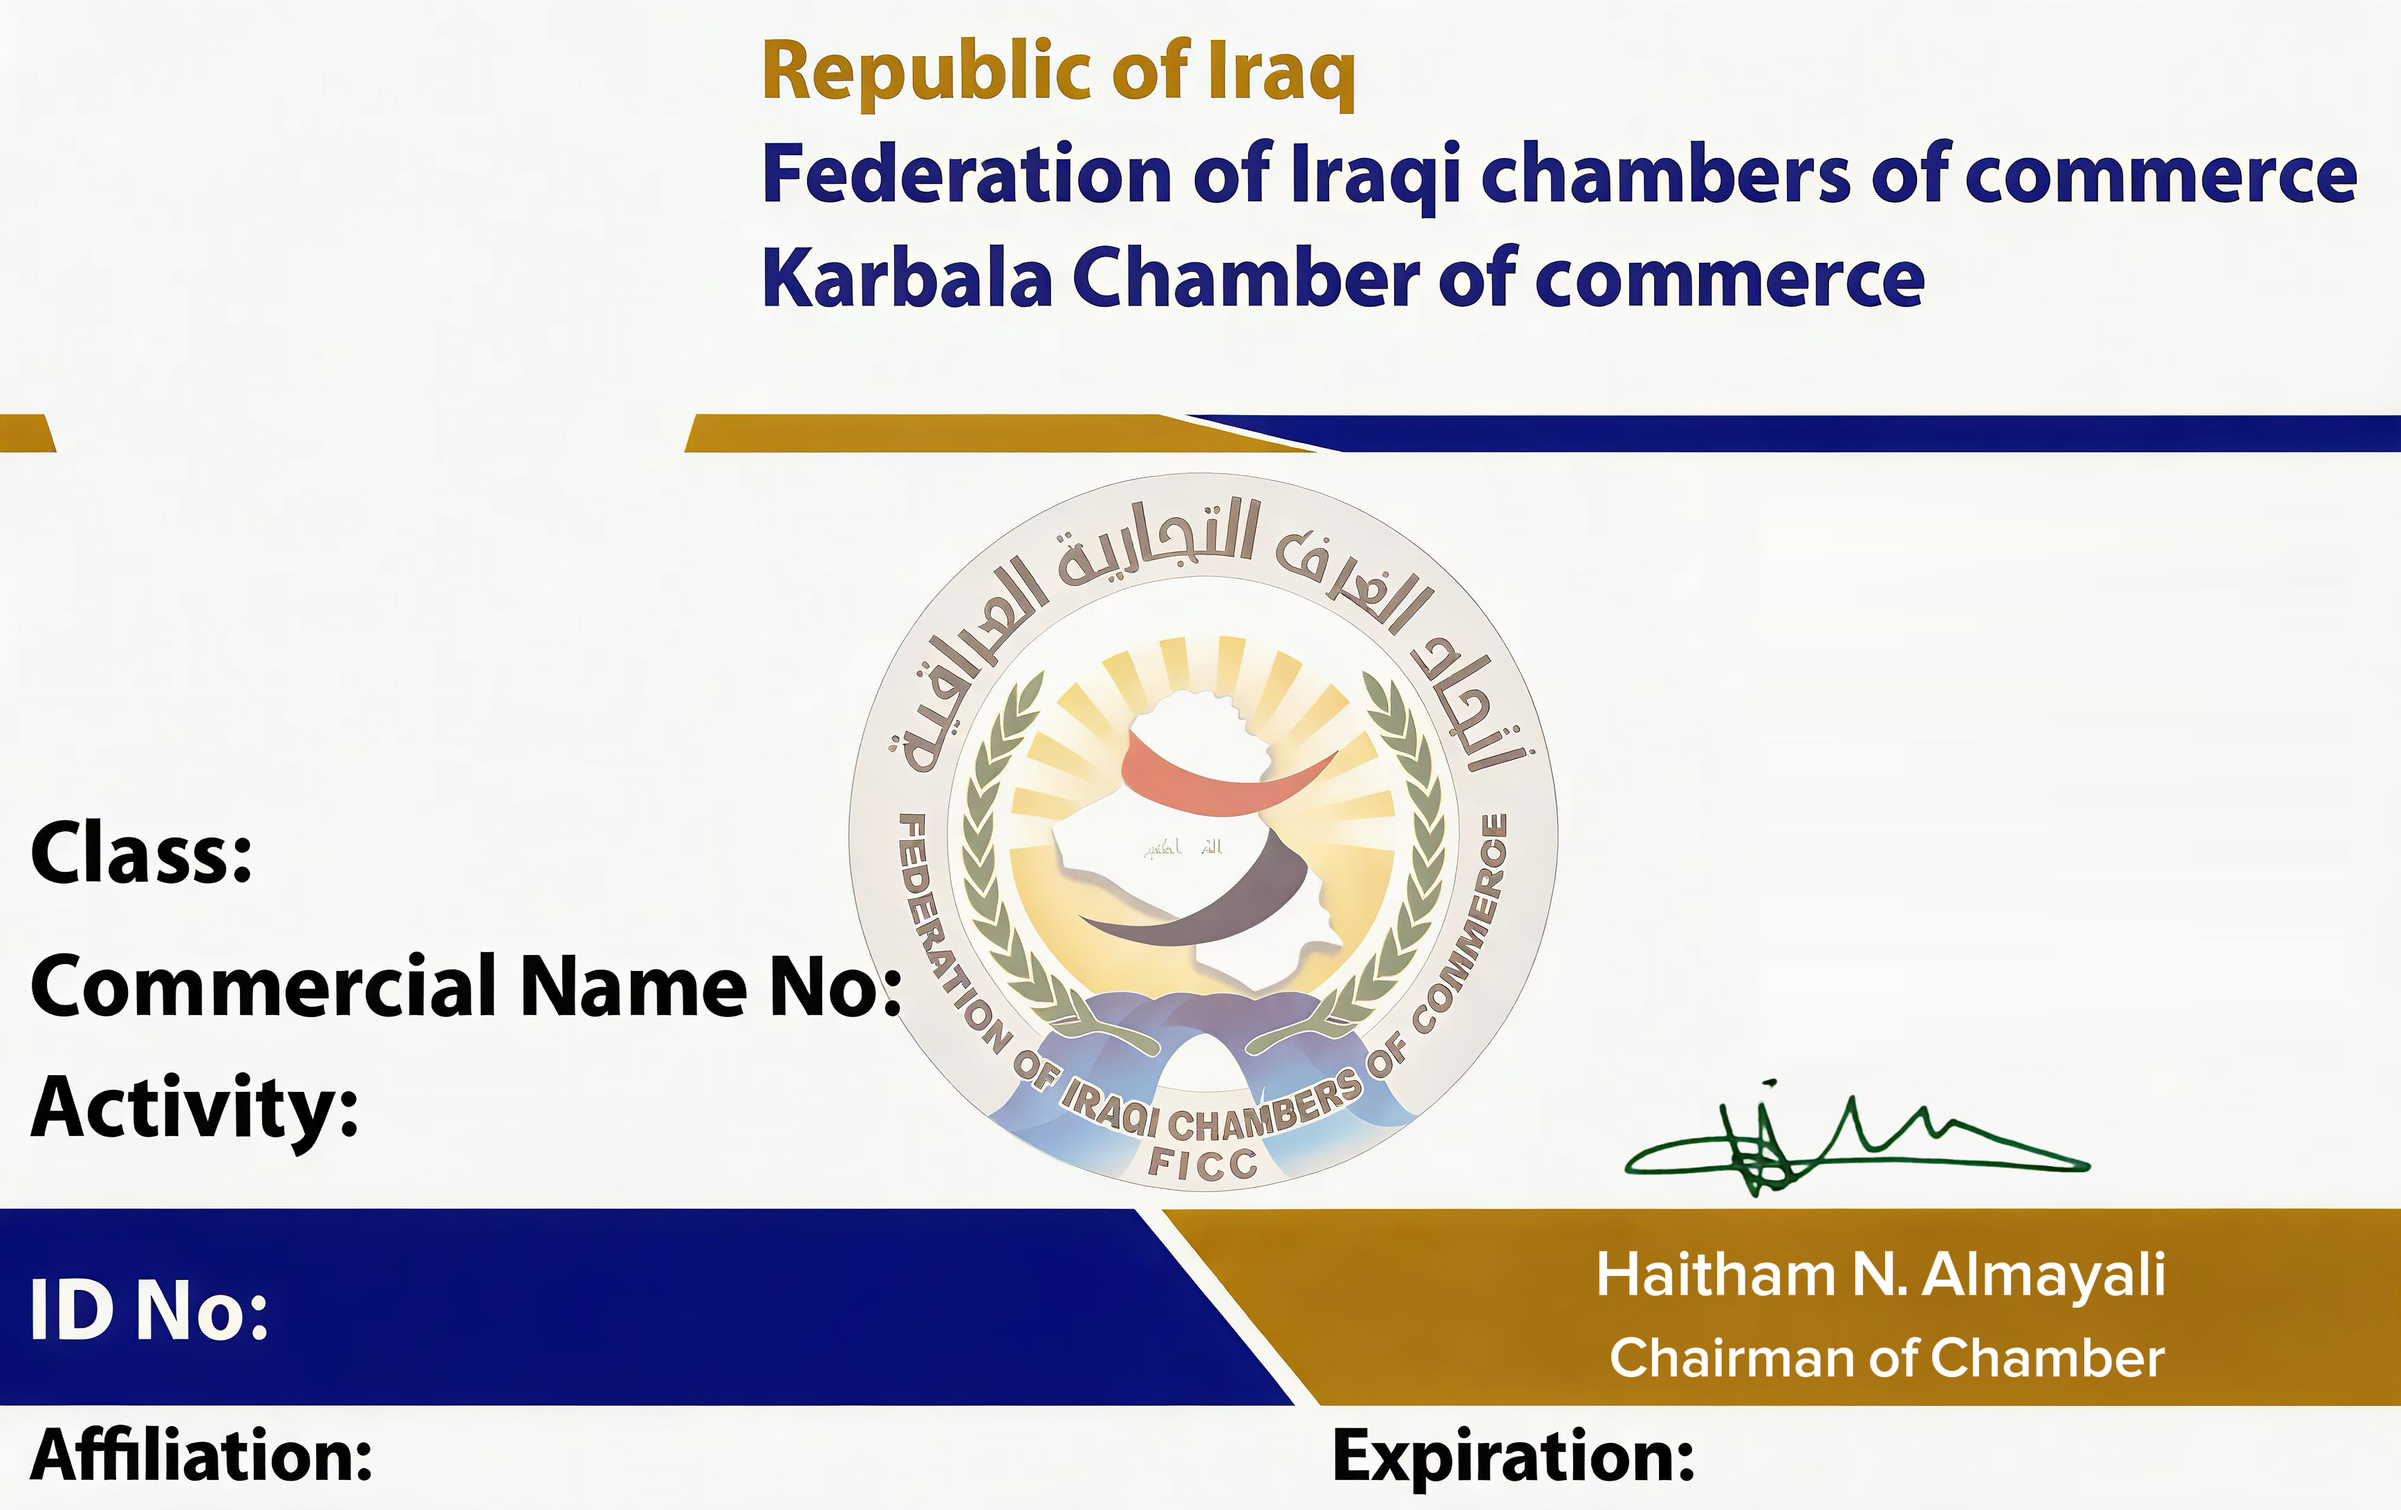
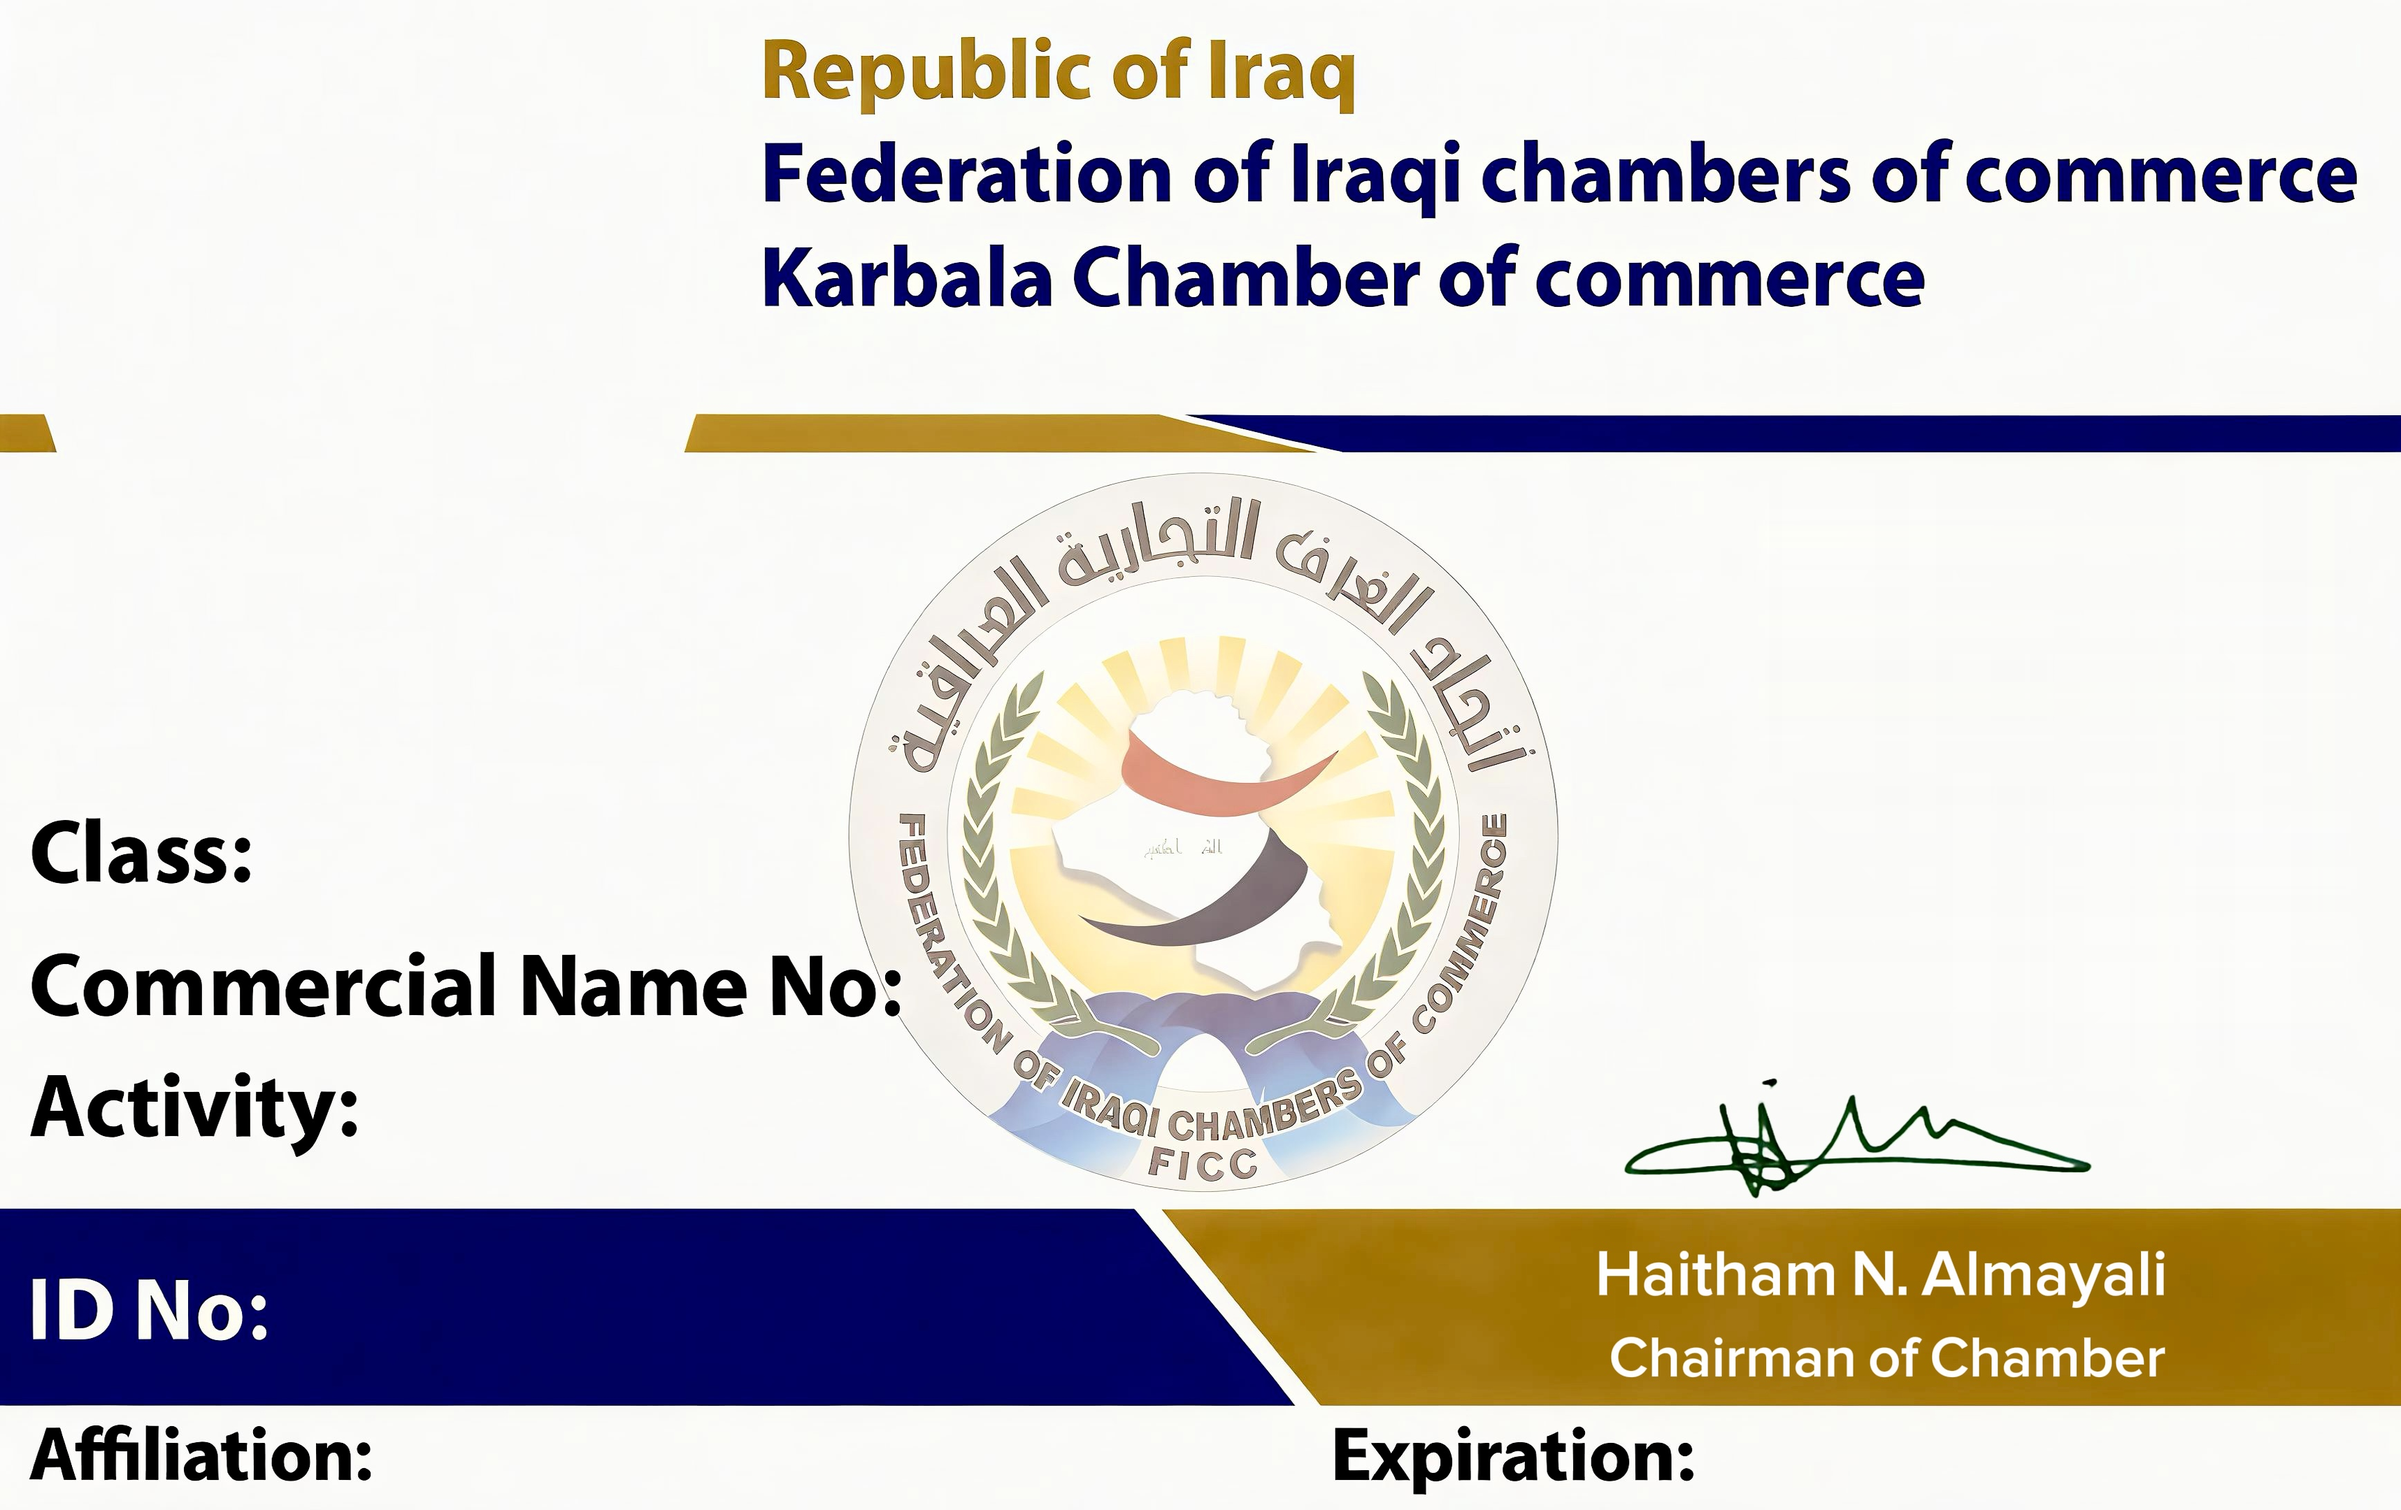
feat(cards): replace trader ID front and back templates with print-ready HD designs

diff --git a/public/js/cardModal.js b/public/js/cardModal.js
@@ -590,13 +590,13 @@ function drawCardBackSync(canvas, trader, bg, qrImg) {
 function getFrontTemplatePath(trader) {
     if (trader && trader.member_type === 'company') return '/templates/company_front_clean.png?v=5';
     if (trader && trader.member_type === 'broker') return '/templates/broker_front_clean.png?v=5';
-    return '/templates/card_front_template.png?v=5';
+    return '/templates/card_front_template.png?v=6';
 }
 
 function getBackTemplatePath(trader) {
     if (trader && trader.member_type === 'company') return '/templates/company_back_clean.png?v=5';
     if (trader && trader.member_type === 'broker') return '/templates/broker_back_clean.png?v=5';
-    return '/templates/card_back_clean.png?v=5';
+    return '/templates/card_back_clean.png?v=6';
 }
 
 async function renderCardFront(canvas, trader) {
@@ -1410,8 +1410,8 @@ window.addEventListener('load', () => {
             loadImage('/templates/broker_front_clean.png?v=5');
             loadImage('/templates/broker_back_clean.png?v=5');
         } else {
-            loadImage('/templates/card_front_template.png?v=5');
-            loadImage('/templates/card_back_clean.png?v=5');
+            loadImage('/templates/card_front_template.png?v=6');
+            loadImage('/templates/card_back_clean.png?v=6');
         }
     });
 });

diff --git a/public/js/cardRenderer.js b/public/js/cardRenderer.js
@@ -83,7 +83,7 @@ export async function renderFrontCard(canvas, trader) {
     ? '/templates/company_front_clean.png?v=5'
     : ((trader && trader.member_type === 'broker')
       ? '/templates/broker_front_clean.png?v=5'
-      : '/templates/card_front_template.png?v=5');
+      : '/templates/card_front_template.png?v=6');
   const bg = await loadImage(tplPath);
   const ctx = initHiResCardCanvas(canvas, bg);
 
@@ -174,7 +174,7 @@ export async function renderBackCard(canvas, trader, qrDataUrl) {
     ? '/templates/company_back_clean.png?v=5'
     : ((trader && trader.member_type === 'broker')
       ? '/templates/broker_back_clean.png?v=5'
-      : '/templates/card_back_clean.png?v=5');
+      : '/templates/card_back_clean.png?v=6');
   const bg = await loadImage(backTplPath);
   const ctx = initHiResCardCanvas(canvas, bg);
 
